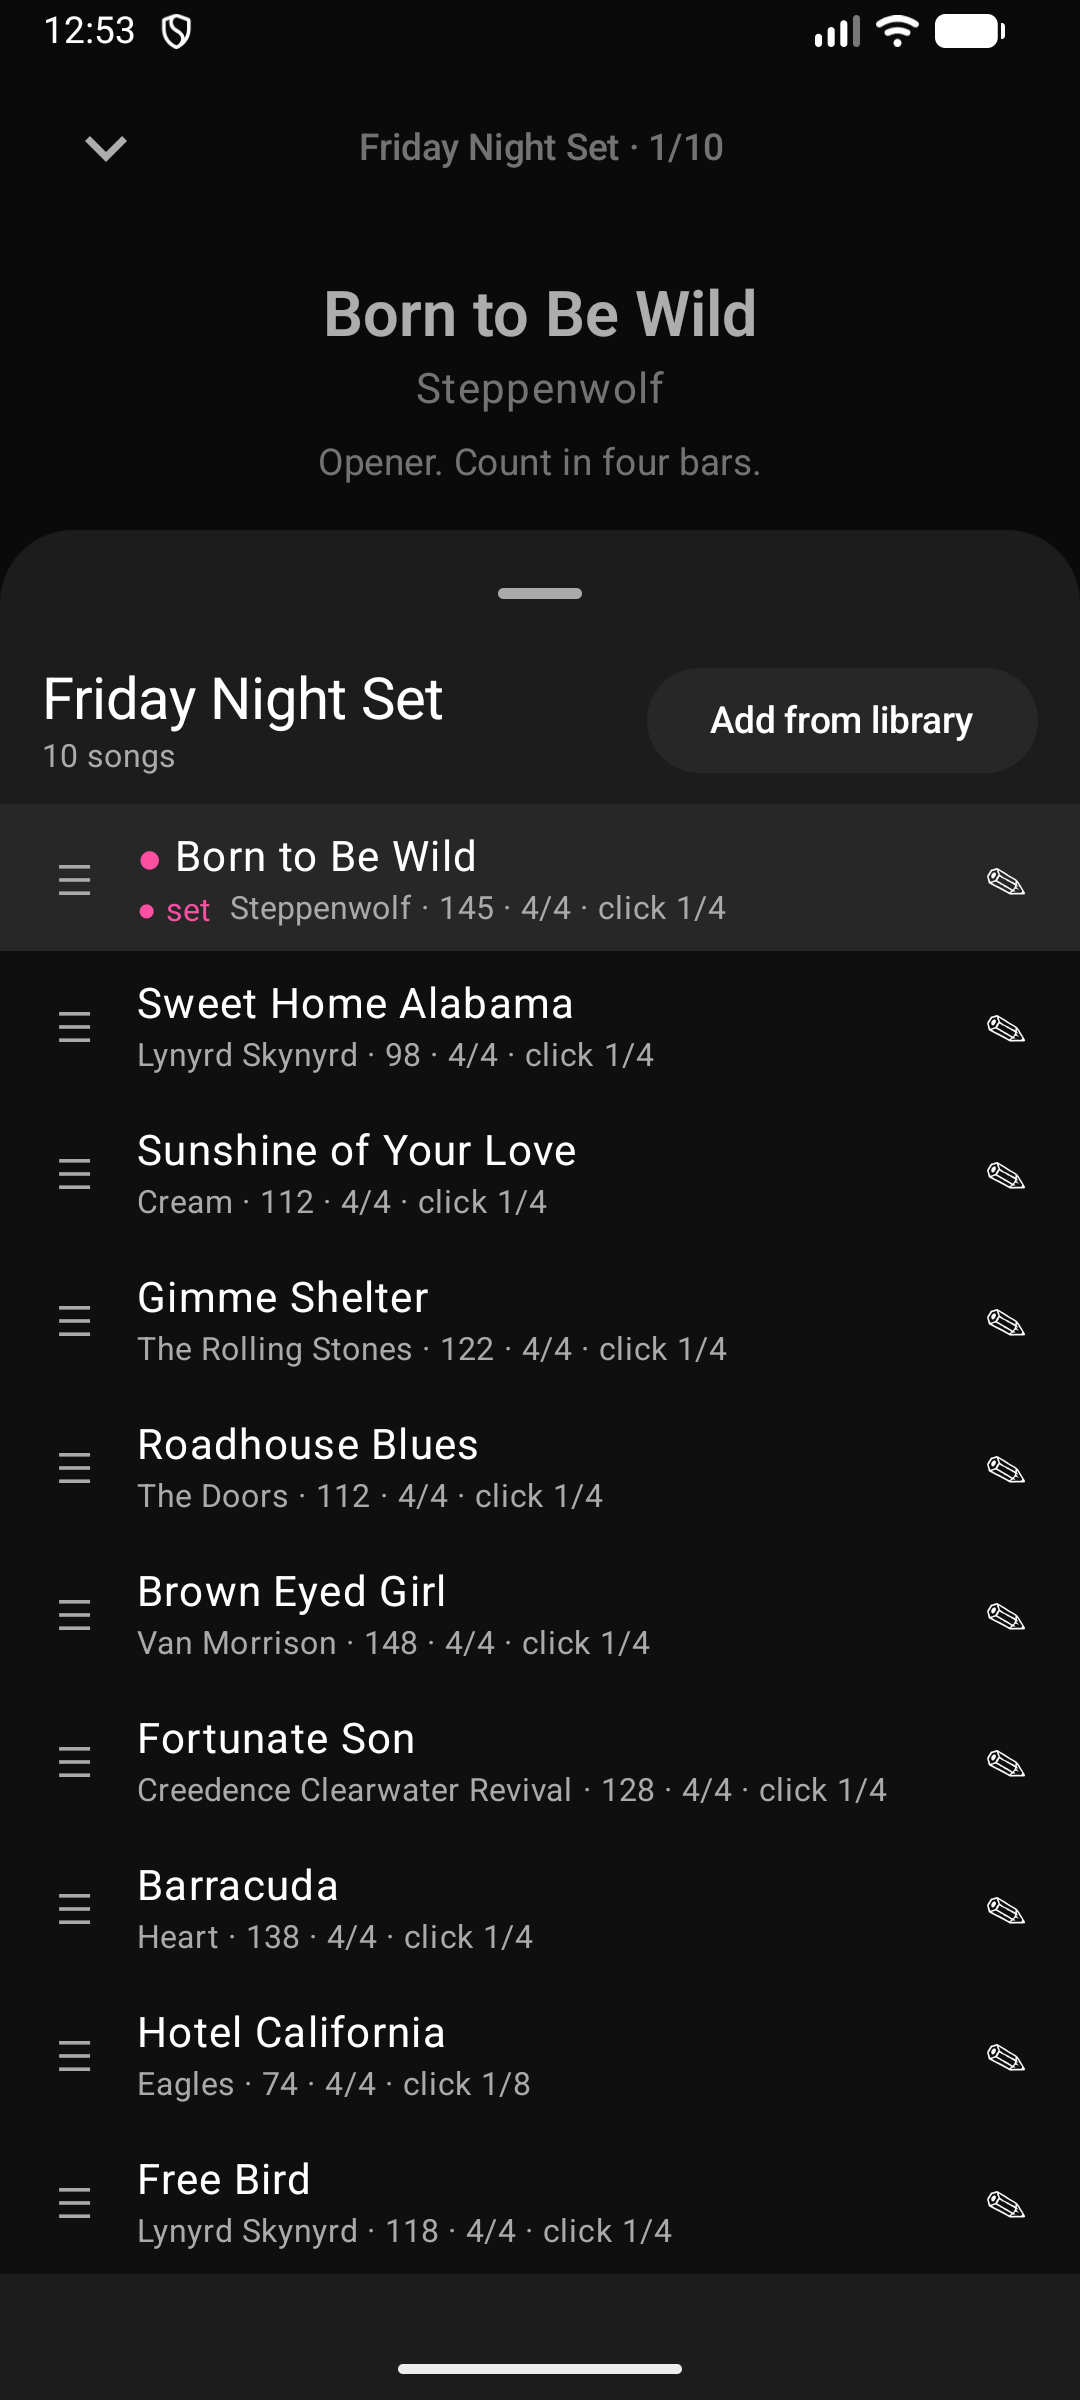
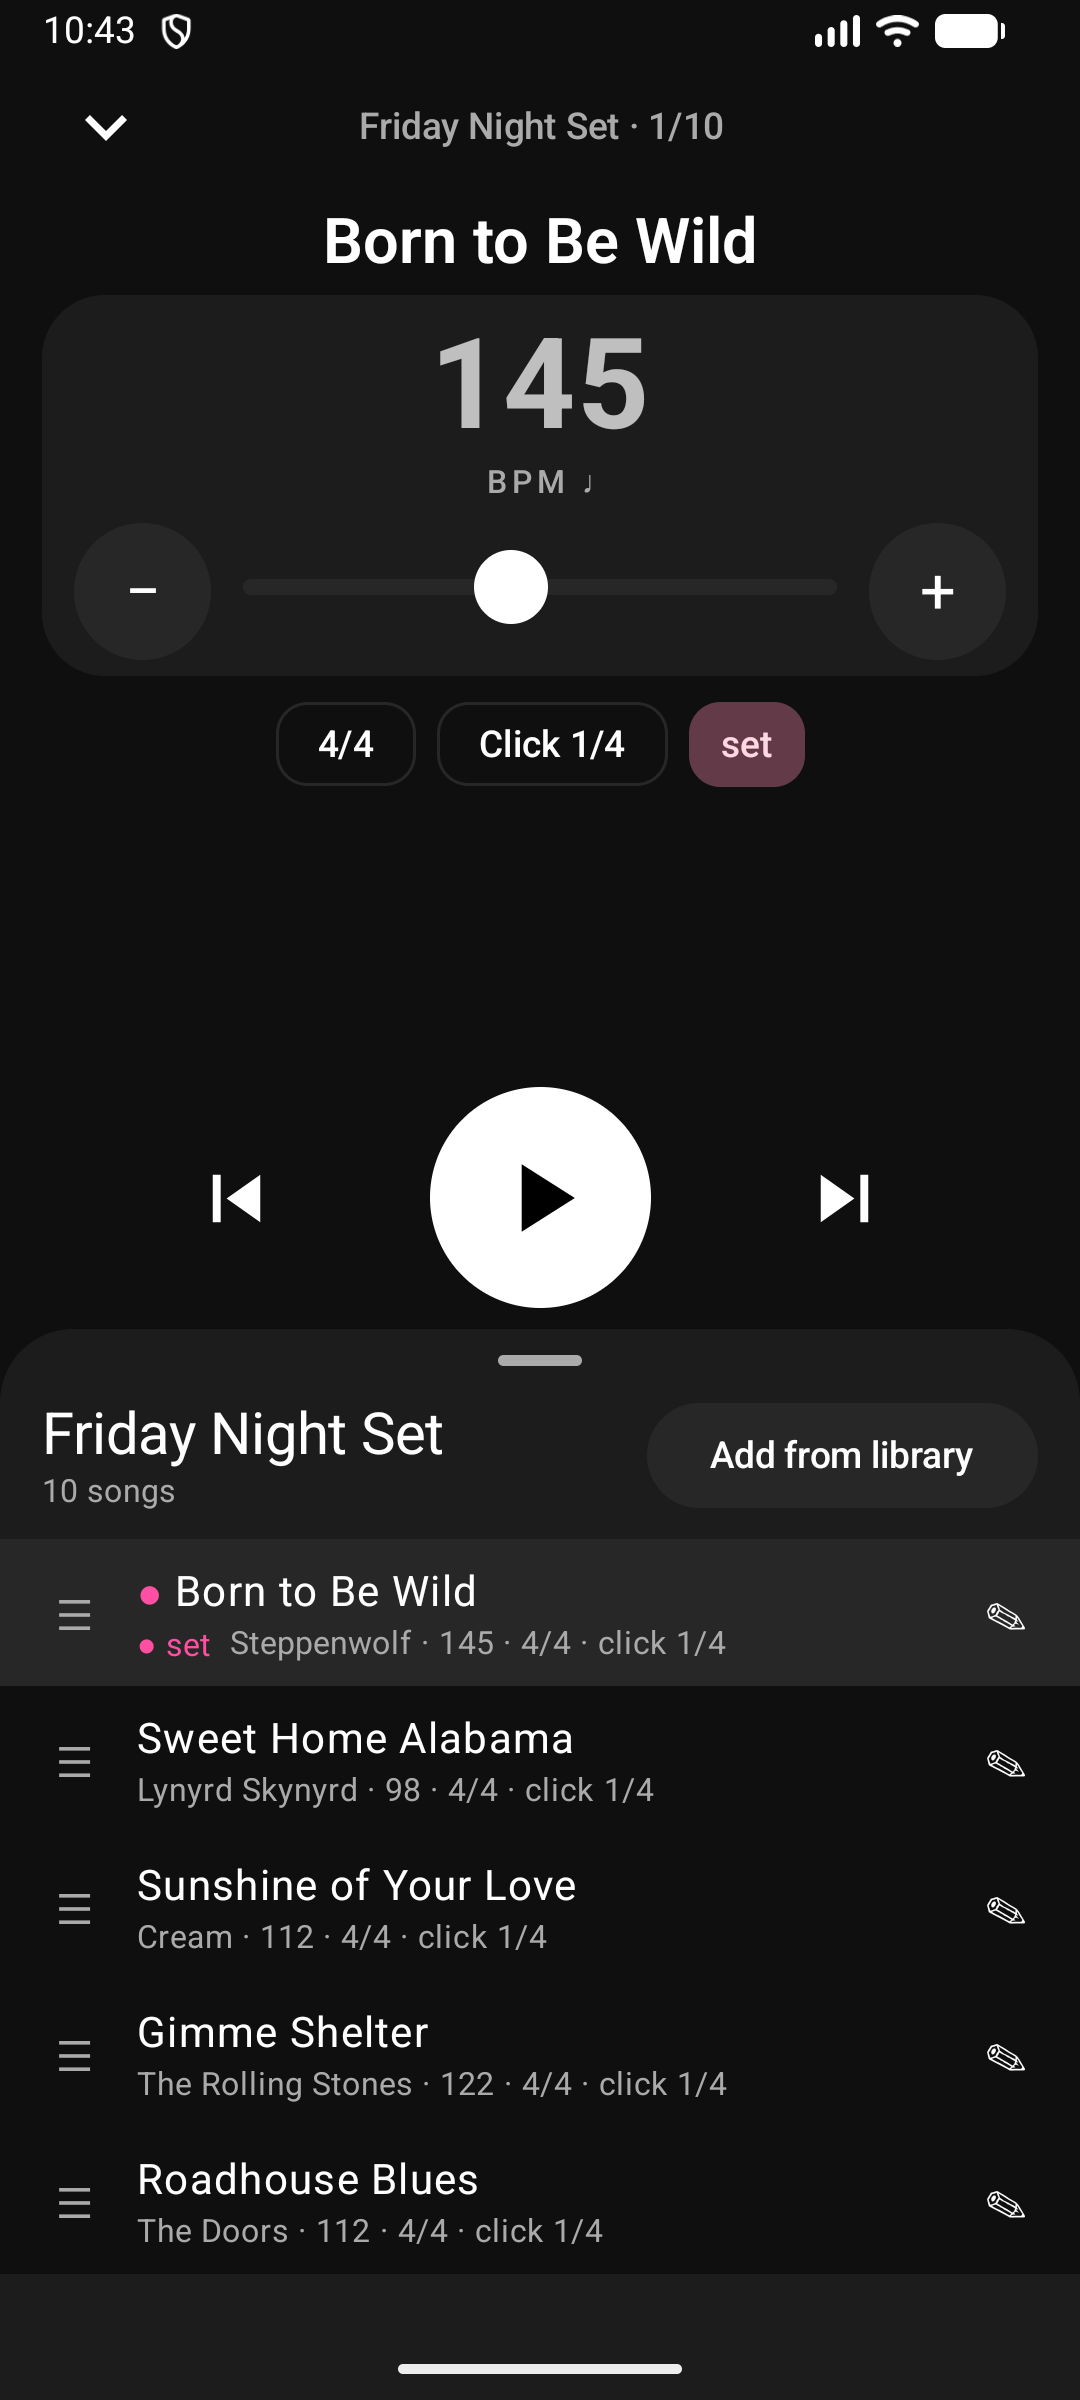
docs(player): cover the queue sheet in acceptance and screenshots

diff --git a/docs/acceptance.md b/docs/acceptance.md
@@ -106,6 +106,23 @@ metronome.
 | [ ] | G11 A song takes over | With Practice playing, open a setlist and start a song. Then return to Practice and play. | Practice stops when the song starts, the notification switches to the song, and the setlist is untouched by Practice. Playing in Practice stops the song and resumes the click at the tempo and bar it was paused at. | |
 | [ ] | G12 Back and Settings | From Practice press Back. Reopen jtmpo, open Settings from Practice, then press Back. | Back from Practice leaves the app, with no tab switch. Back from Settings returns to Practice, not to Setlists. | |
 
+## H. Player queue sheet
+
+The setlist at the bottom of the player is a non-modal sheet: hidden (the "Up next" bar), half (five rows) or full.
+Use the demo library (Friday Night Set, 10 songs) and try each item at the default font size and at 1.3x.
+
+| Done | Item | Steps | Expected | Result |
+| --- | --- | --- | --- | --- |
+| [ ] | H1 Half stop | In the player tap "Up next". | The sheet opens to exactly five song rows (no half row, no gap) and the player shrinks above it: artist and notes hide, the tempo card gets smaller, previous/play/next stay visible. | |
+| [ ] | H2 Player stays usable | At half, tap play/pause, previous/next, the -/+ buttons and drag the tempo track. | All of them work with the sheet still open; the drag bubble floats over the BPM label. | |
+| [ ] | H3 Scroll at half | At half, swipe the song list up and down. | The list scrolls; the sheet stays at half. | |
+| [ ] | H4 Playing song visible | Play song 8 (or press next to get there), then open the sheet. Press previous and next. | The playing song is the last visible row when it is past the fifth, and is always on screen at half. | |
+| [ ] | H5 Full and back | Drag the sheet handle (or the header) up, then down. | Up goes to full height and the full list scrolls; down returns to half, and again to hidden (the "Up next" bar). No strip of the sheet shows at the bottom edge while hidden. | |
+| [ ] | H6 Reorder | At half and at full, drag a row by its handle. | The row moves and the new order is kept; it does not fight with scrolling or the sheet. | |
+| [ ] | H7 Edit and add | From the sheet tap a row's pencil, then "Add from library". | The edit sheet and the add sheet open over the queue as before; closing them leaves the queue where it was. | |
+| [ ] | H8 Back and unsaved change | Make an unsaved tempo change, open the sheet, then press Back. | Back hides the sheet first, and a second Back leaves the player. The unsaved bar is visible at half (at 1.3x scroll the player to reach the save buttons). | |
+| [ ] | H9 Short setlist | Open a setlist with fewer than five songs (add one if needed) and open the sheet. | The sheet is only as tall as its songs, no empty space. | |
+
 ## Sign-off
 
 Date: ____  Build/commit: ____  Overall: ____
